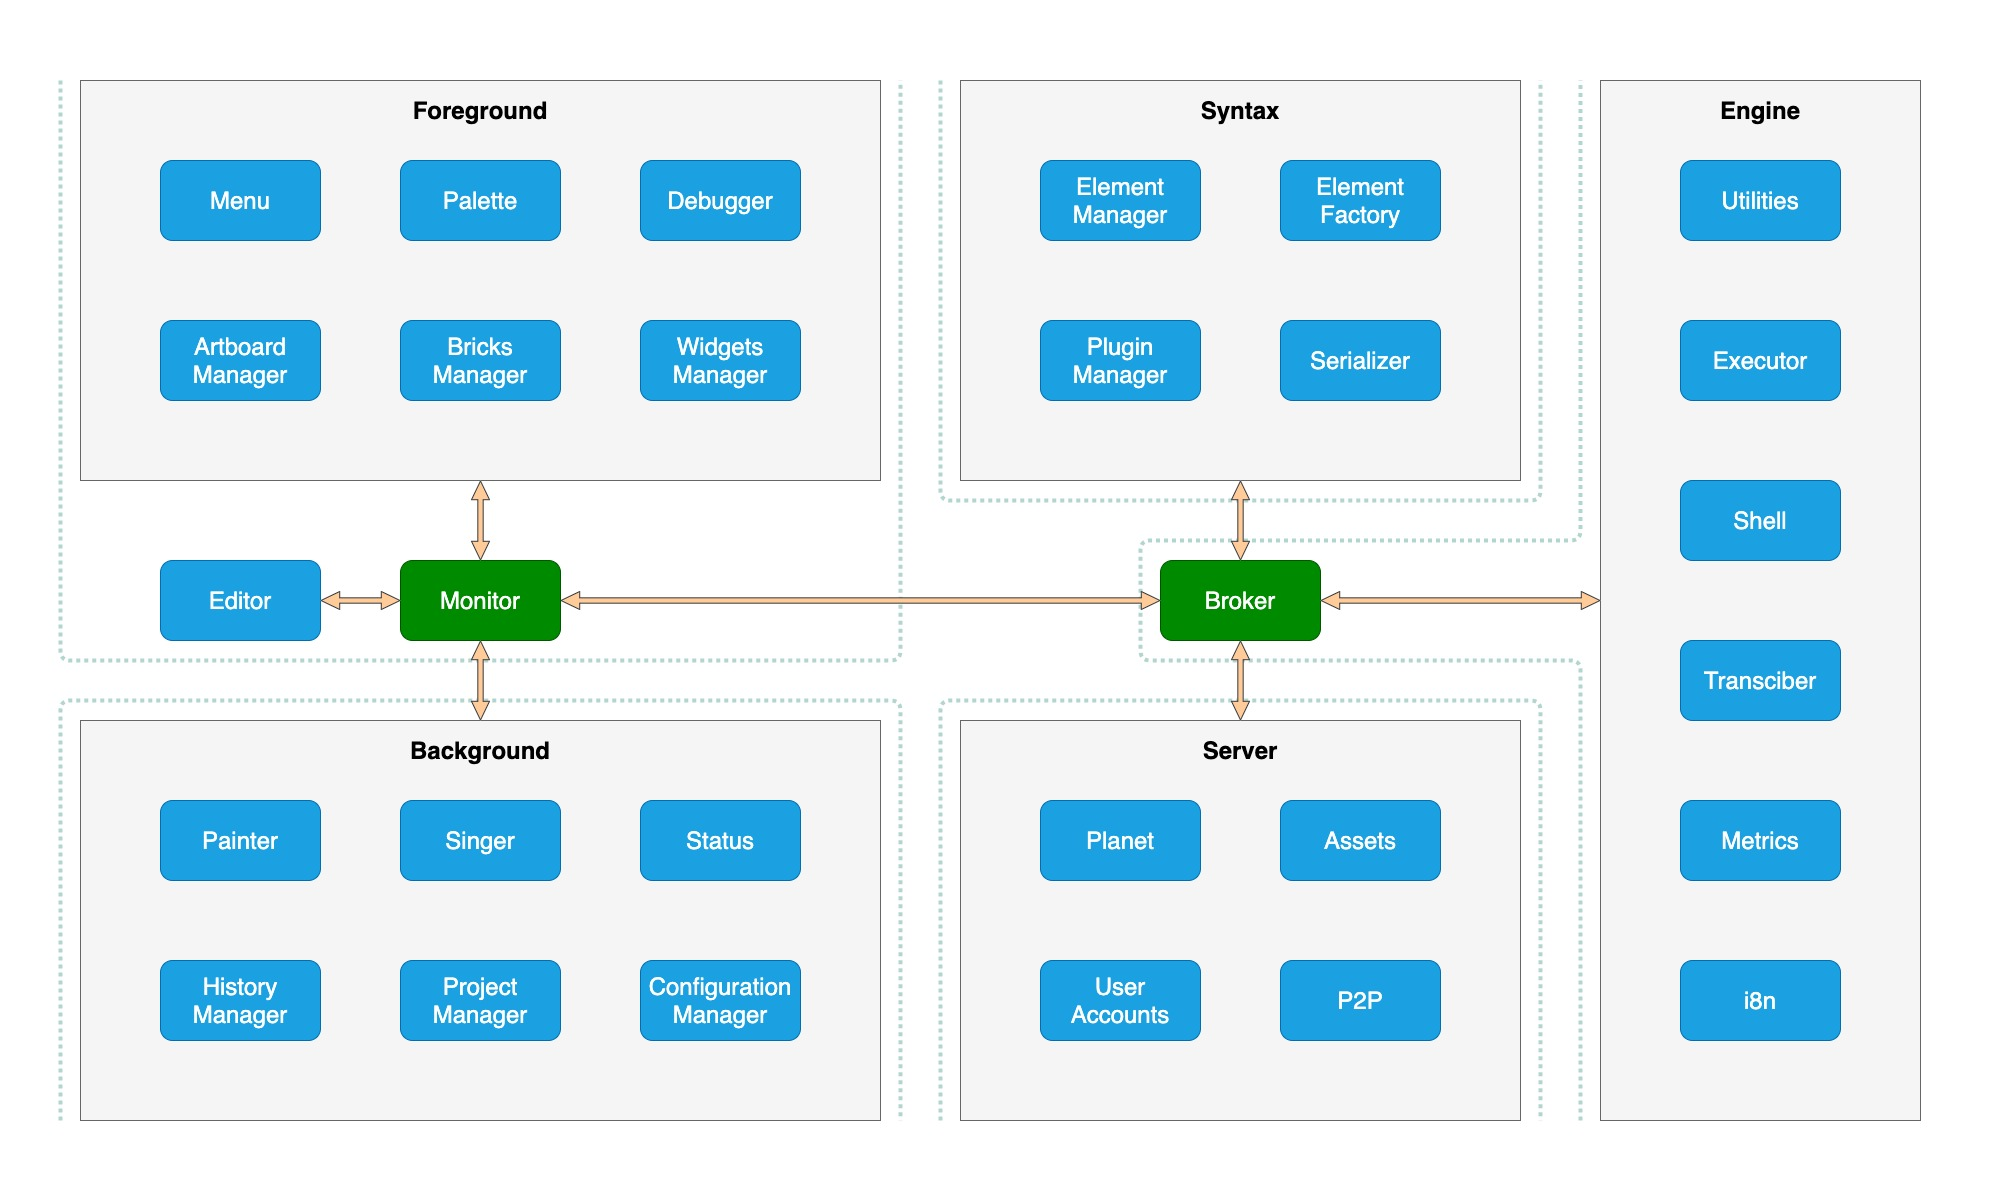
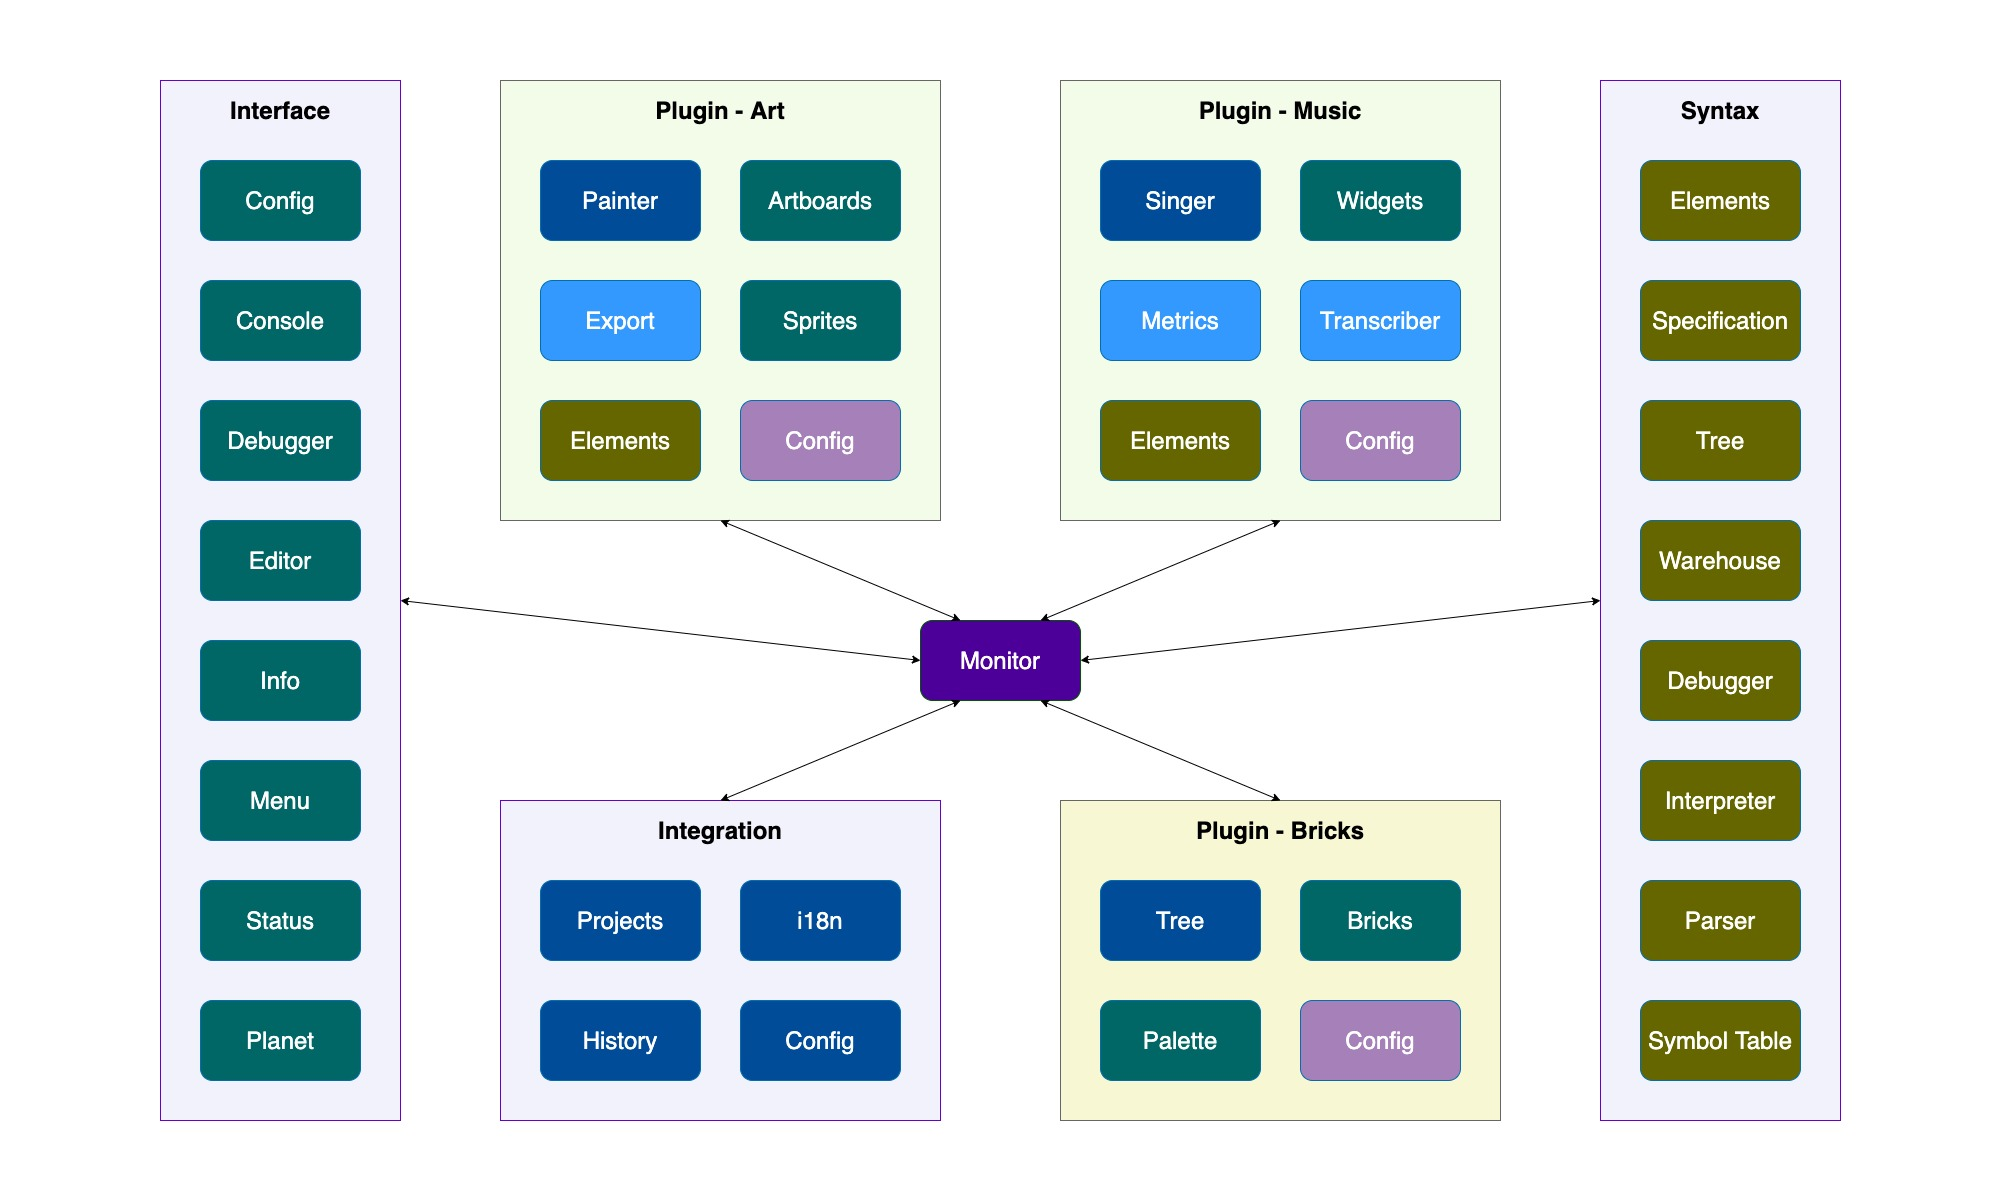
docs: Add new architecture details to README

diff --git a/README.md b/README.md
@@ -4,44 +4,116 @@ A complete overhaul of [Music Blocks](https://github.com/sugarlabs/musicblocks).
 
 ## Proposed Architecture
 
+The aim of the new architecture is modularity and extensibility. The idea is to create a core visual
+programming platform, and extend it with other features.
+
+- The source code for the components specific to the application wil reside in this
+[**musicblocks-v4**](https://github.com/sugarlabs/musicblocks-v4/) repository.
+
+- The source code for the programming framework will reside in the
+[**musicblocks-v4-lib**](https://github.com/sugarlabs/musicblocks-v4-lib/) repository.
+
+- **musicblocks-v4-lib** will be bundled as an _NPM_ package and imported as a dependency in
+**musicblocks-v4**.
+
+### Components
+
 ![Component Architecture](docs/images/architecture/components.jpg)
 
-- 5 component clusters: **Foreground**, **Background**, **Syntax**, **Engine**, **Server**
+#### Core
 
-- **Foreground** cluster contains the UI components. These are the only ones which use *React* and
-follow *Model-View-ViewModel* (*MVVM*) architecture.
+3 core components: **Interface**, **Syntax**, **Integration**
 
-- **Background** cluster contains the components which are specific to the application client
-(browser for now) but are not UI components. These are *TypeScript* classes that may wrap client
-specific libraries.
+- **Interface** component shall contain the UI components. These are the ones which use _React_ and
+follow _Model-View-ViewModel_ (_MVVM_) architecture.
 
-- **Syntax** cluster contains the components that handle how Music Blocks programs are represented.
-These are not client specific.
+  - **Menu** shall handle top level operations like running projects, managing projects, undo/redo,
+  application settings.
 
-- **Engine** cluster contains the components responsible for handling the execution of Music Blocks
-programs and other computatation-driven actions like export to sheet music.
+  - **Config** shall be used to configure the feature configurations.
 
-- **Server** cluster contains the components that handle server side actions. This is part of a
-new feature proposal and are not a priority until the first stable release.
+  - **Status** shall display the application status.
 
-- The **Monitor** and **Broker** components are bridges for inter-component communication.
+  - **Info** shall display logs.
 
-- The source code for the **Foreground** and **Background** clusters will reside in the
-[**musicblocks-v4**](https://github.com/sugarlabs/musicblocks-v4/) repository. The source code for
-the **Syntax** and **Engine** clusters will reside in the
-[**musicblocks-v4-lib**](https://github.com/sugarlabs/musicblocks-v4/) repository. **Monitor** will
-be part of the prior, and **Broker** will be part of the later.
+  - **Console** shall provide an interactive tool to run application level commands and
+  display messages (like a terminal).
 
-- The **musicblocks-v4-lib** will be bundled as an *NPM* package and imported as a dependency in
-**musicblocks-v4**.
+  - **Debugger** shall be used to debug Music Blocks programs by monitoring states.
+
+  - **Editor** shall be responsible to building Music Blocks programs in text form.
+
+  - **Planet** shall be a repository for openly shared projects.
+
+- **Syntax** component shall contain the programming framework. These are responsible for internal
+representation and execution of Music Blocks programs. This shall come with a factory set of program
+building syntax elements.
+
+  - **Elements** shall describe the rudimentary syntax element constructs — **data**, **expressions**,
+  **statements**, and **blocks**.
+
+  - **Specification** shall describe the ambient configurations (label, selective connectivity, etc.)
+  for syntax elements.
+
+  - **Warehouse** shall instantiate and maintain a table of syntax element instances.
+
+  - **Tree** shall respresent the syntax tree by maintaining the interconnections between syntax
+  elements.
+
+  - **Symbol Table** shall maintain the set of program variables.
+
+  - **Parser** shall handle the sequential traversal of syntax elements.
+
+  - **Interpreter** shall orchestrate running Music Blocks programs — exeution of syntax elements.
+
+- **Integrations** component shall contain the components responsible for handling application
+configurations and other bookkeeping.
+
+  - **Config** shall handle application specific configurations and loading of configured plugins.
+
+  - **i18n** shall handle internationalisation — managing language strings.
+
+  - **Projects** shall handle for creating, loading, merging, and exporting projects.
+
+  - **History** shall handle maintaining a log of application-level operations for rollback.
+
+In addition, a **Monitor** component shall be responsible for inter-component communication.
+
+#### Plugins
+
+2 kinds of plugins: **Features** and **Syntax Builders**
+
+- **Features** add new functionality to the application. These may add interface components and new
+set of syntax elements.
+
+- **Syntax Builders** add interfaces to build Music Blocks programs.
+
+Plugins may be extended themselves to add more optional functionalities.
+
+##### Plugin (Feature) - Painter
+
+This shall add artwork generating functionality, and a set of syntax elements to interact with them.
+
+##### Plugin (Feature) - Singer
+
+This shall add music generating functionality, and a set of syntax elements to interact with them.
+This shall be extended to add widgets for generating syntax element stacks.
+
+##### Plugin (Syntax Builder) - Bricks
+
+This shall add the functionality to build Music Blocks programs using visual bricks.
+
+### Wireframe
+
+![Wireframe](docs/images/architecture/wireframe.jpg)
 
 ## Contributing
 
 Please visit the [discussions](https://github.com/sugarlabs/musicblocks-v4/discussions) tab at the
 top of the repository to follow and/or discuss about the planning progress.
 
-A prototype has been built currently. Parallel development will be done in the
-[**musicblocks-v4-lib**](https://github.com/sugarlabs/musicblocks-v4-lib) repository as mentioned
+A prototype has been built currently. Parallel development of the programming framework will be done
+in the [**musicblocks-v4-lib**](https://github.com/sugarlabs/musicblocks-v4-lib) repository as mentioned
 above. For updates, follow the `develop` branch and the feature branches that branch out of it.
 Please look out for *Issues* tab of both repositories.
 
@@ -129,9 +201,9 @@ of ideas (Sugar Labs is a meritocracy)._
 
 ## Tech Stack
 
-Music Blocks v4 shall be built using `React 17 (with hooks)` and `TypeScript 4`. In addition,
-`SCSS` shall be used for styling. `Webpack` has been configured to transpile and bundle the source
-code, for deployment on a web browser.
+Music Blocks v4 shall be built using `TypeScript 4`and `React 17 (with hooks)`. In addition, `SCSS`
+shall be used for styling; `Webpack` will be configured to transpile and bundle the source code, for
+deployment on a web browser.
 
 ## Setup Development Environment
 
@@ -308,7 +380,7 @@ After you are set-up, the steps you take depend on what you want to do:
 
 - **HTTP server**
 
-    To spawn an _HTTP Server_ (uses _Python 3_'s `http.server`), run
+  To spawn an _HTTP Server_ (uses _Python 3_'s `http.server`), run
 
     ```bash
     npm run serve
@@ -320,35 +392,35 @@ After you are set-up, the steps you take depend on what you want to do:
 
 - **Miscellaneous commands**
 
-    _**Note:**_ This requires _**Node**_ (_Node.js Runtime_), _**tsc**_ (_TypeScript Compiler_), and
-    _**ts-node**_ (_Node executable for TypeScript_) to be installed. If you are using _Docker_,
-    they'll be pre-installed in the container.
+  _**Note:**_ This requires _**Node**_ (_Node.js Runtime_), _**tsc**_ (_TypeScript Compiler_), and
+  _**ts-node**_ (_Node executable for TypeScript_) to be installed. If you are using _Docker_, they'll
+  be pre-installed in the container.
 
-    - To launch the _Node runtime_, run
+  - To launch the _Node runtime_, run
 
-        ```bash
-        node
-        ```
+    ```bash
+    node
+    ```
 
-    - To run a _JavaScript_ file, say `file.js`, run
+  - To run a _JavaScript_ file, say `file.js`, run
 
-        ```bash
-        node file.js
-        ```
+    ```bash
+    node file.js
+    ```
 
-    - To transpile a _TypeScipt_ file, say `file.ts`, to _JavaScript_, run
+  - To transpile a _TypeScipt_ file, say `file.ts`, to _JavaScript_, run
 
-        ```bash
-        tsc file.ts
-        ```
+    ```bash
+    tsc file.ts
+    ```
 
-        This transpilation produces `file.js`.
+    This transpilation produces `file.js`.
 
-    - To run a _TypeScript_ file directly, say `file.ts`, run
+  - To run a _TypeScript_ file directly, say `file.ts`, run
 
-        ```bash
-        ts-node file.ts
-        ```
+    ```bash
+    ts-node file.ts
+    ```
 
 ## Editor
 
